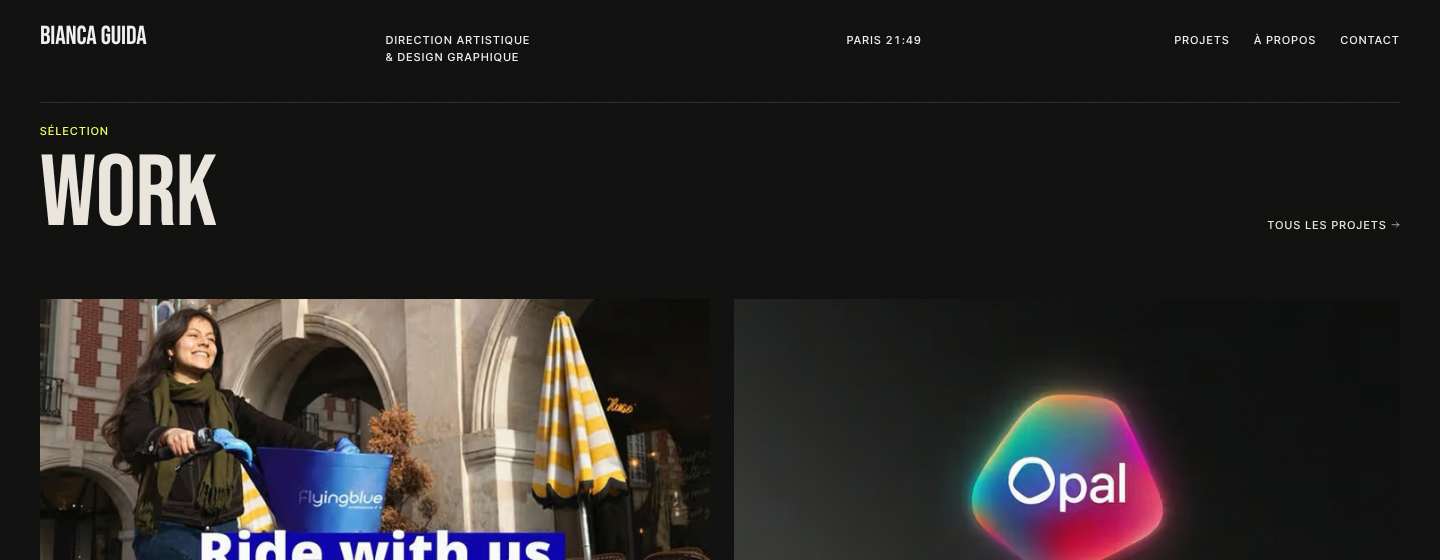
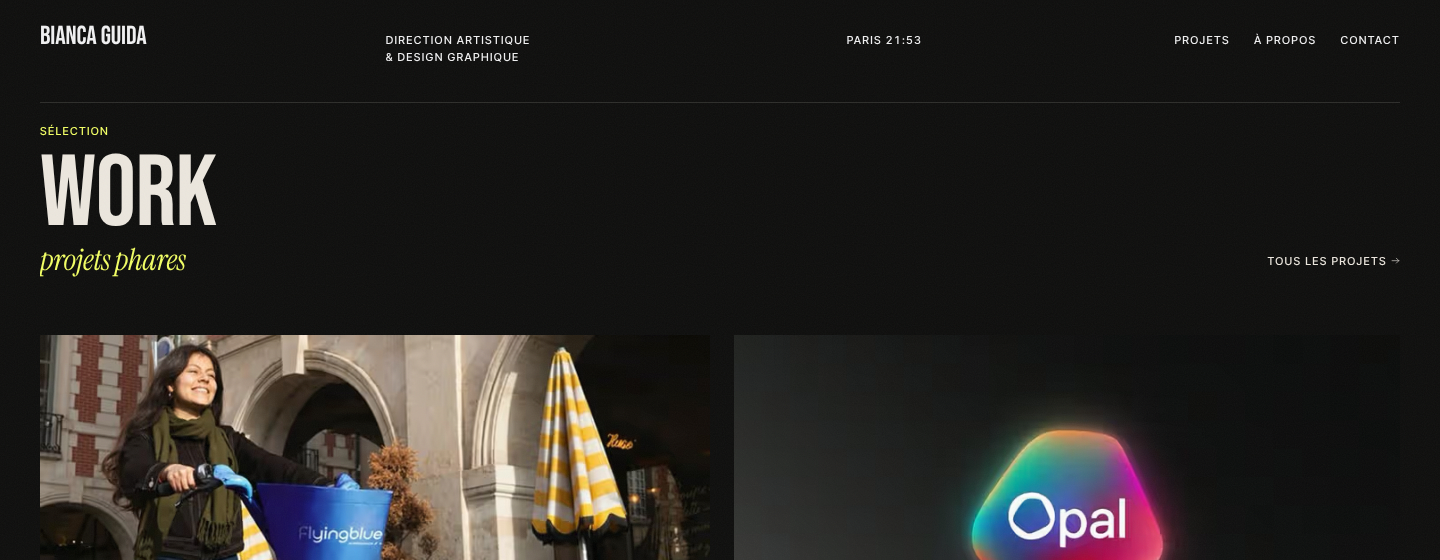
Accueil : « projets phares » en italique jaune sous WORK
Claude-Session: https://claude.ai/code/session_019zLV6BxsN8g4HPLTLGMgo7

diff --git a/src/app/page.tsx b/src/app/page.tsx
@@ -22,7 +22,7 @@ export default function Home() {
         <SectionHead
           id="selection"
           label="Sélection"
-          title={["Work"]}
+          title={["Work", <span key="s" className="serif-i block whitespace-nowrap pt-[0.08em] text-[0.3em] normal-case leading-none text-signal">projets phares</span>]}
           aside={
             <Link href="/projets" className="label">
               <span className="u-link">Tous les projets <Icon name="arrow-right" /></span>
